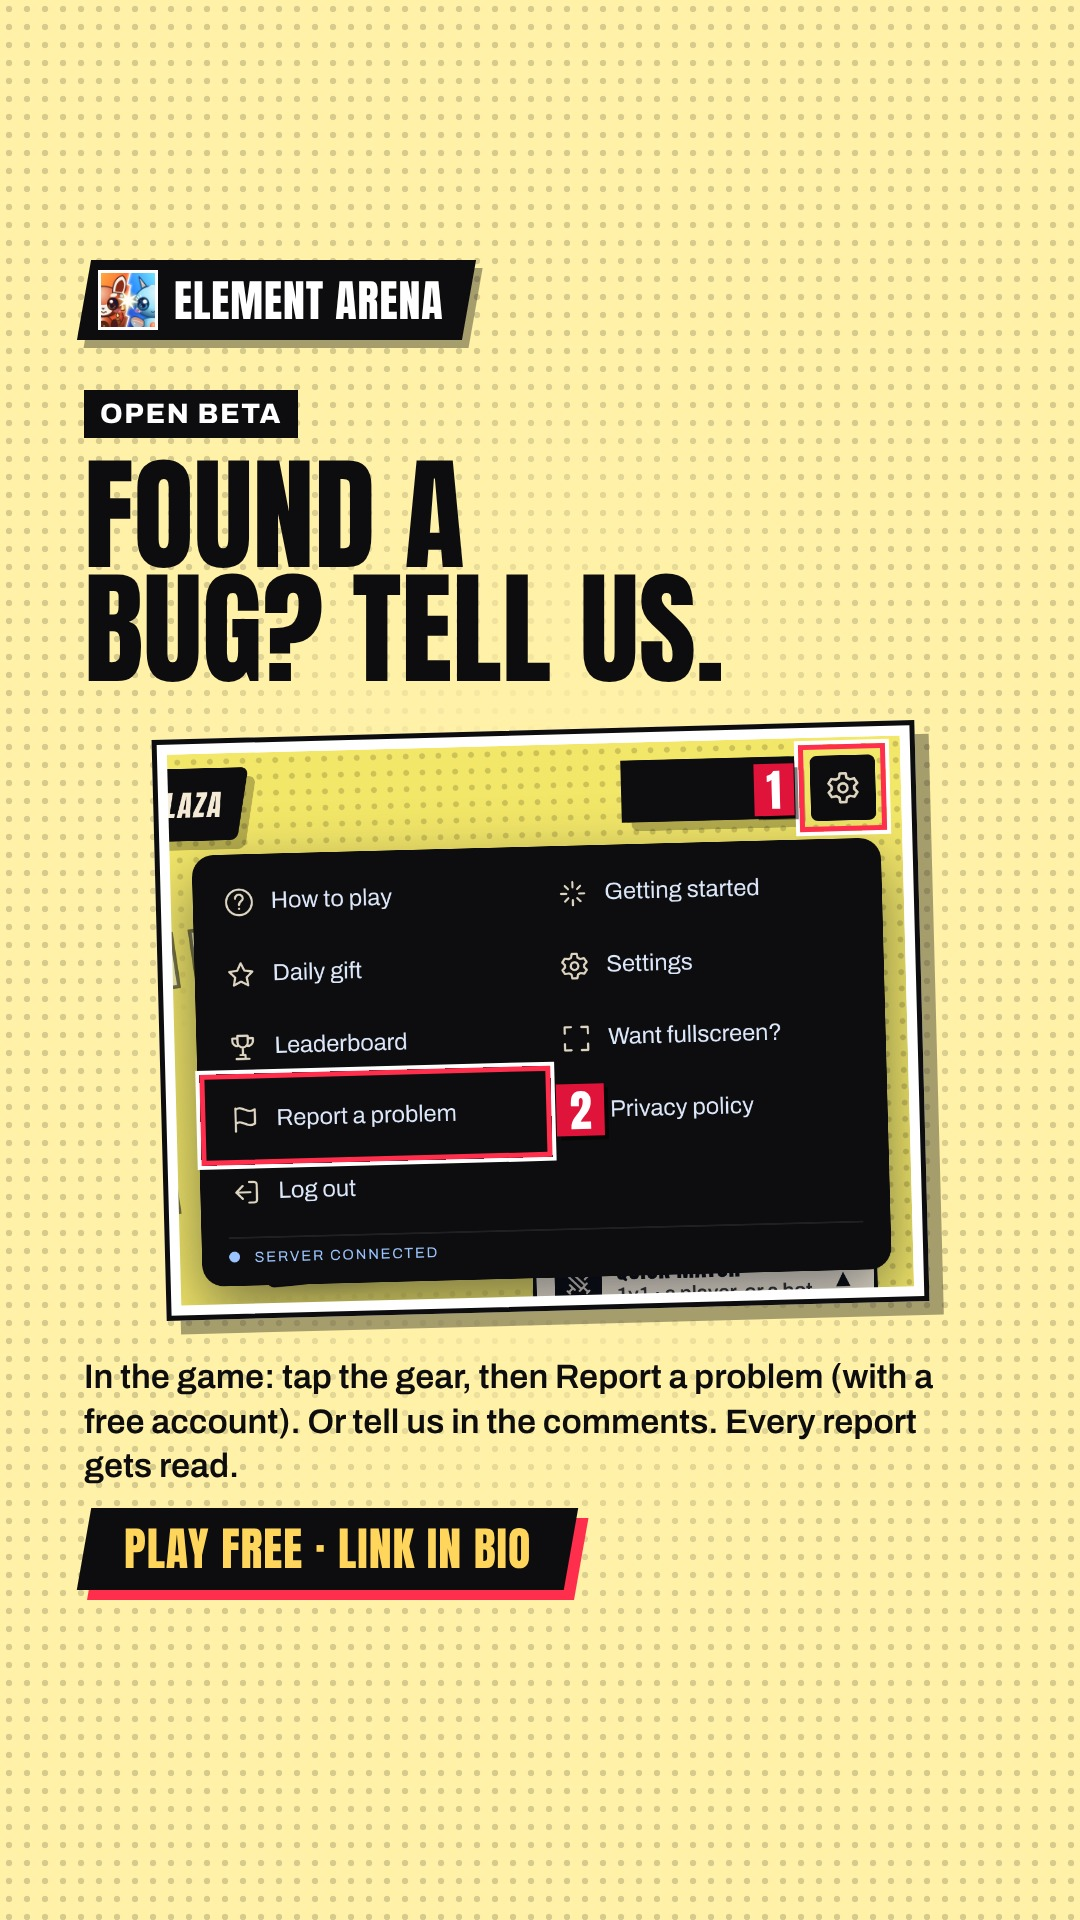
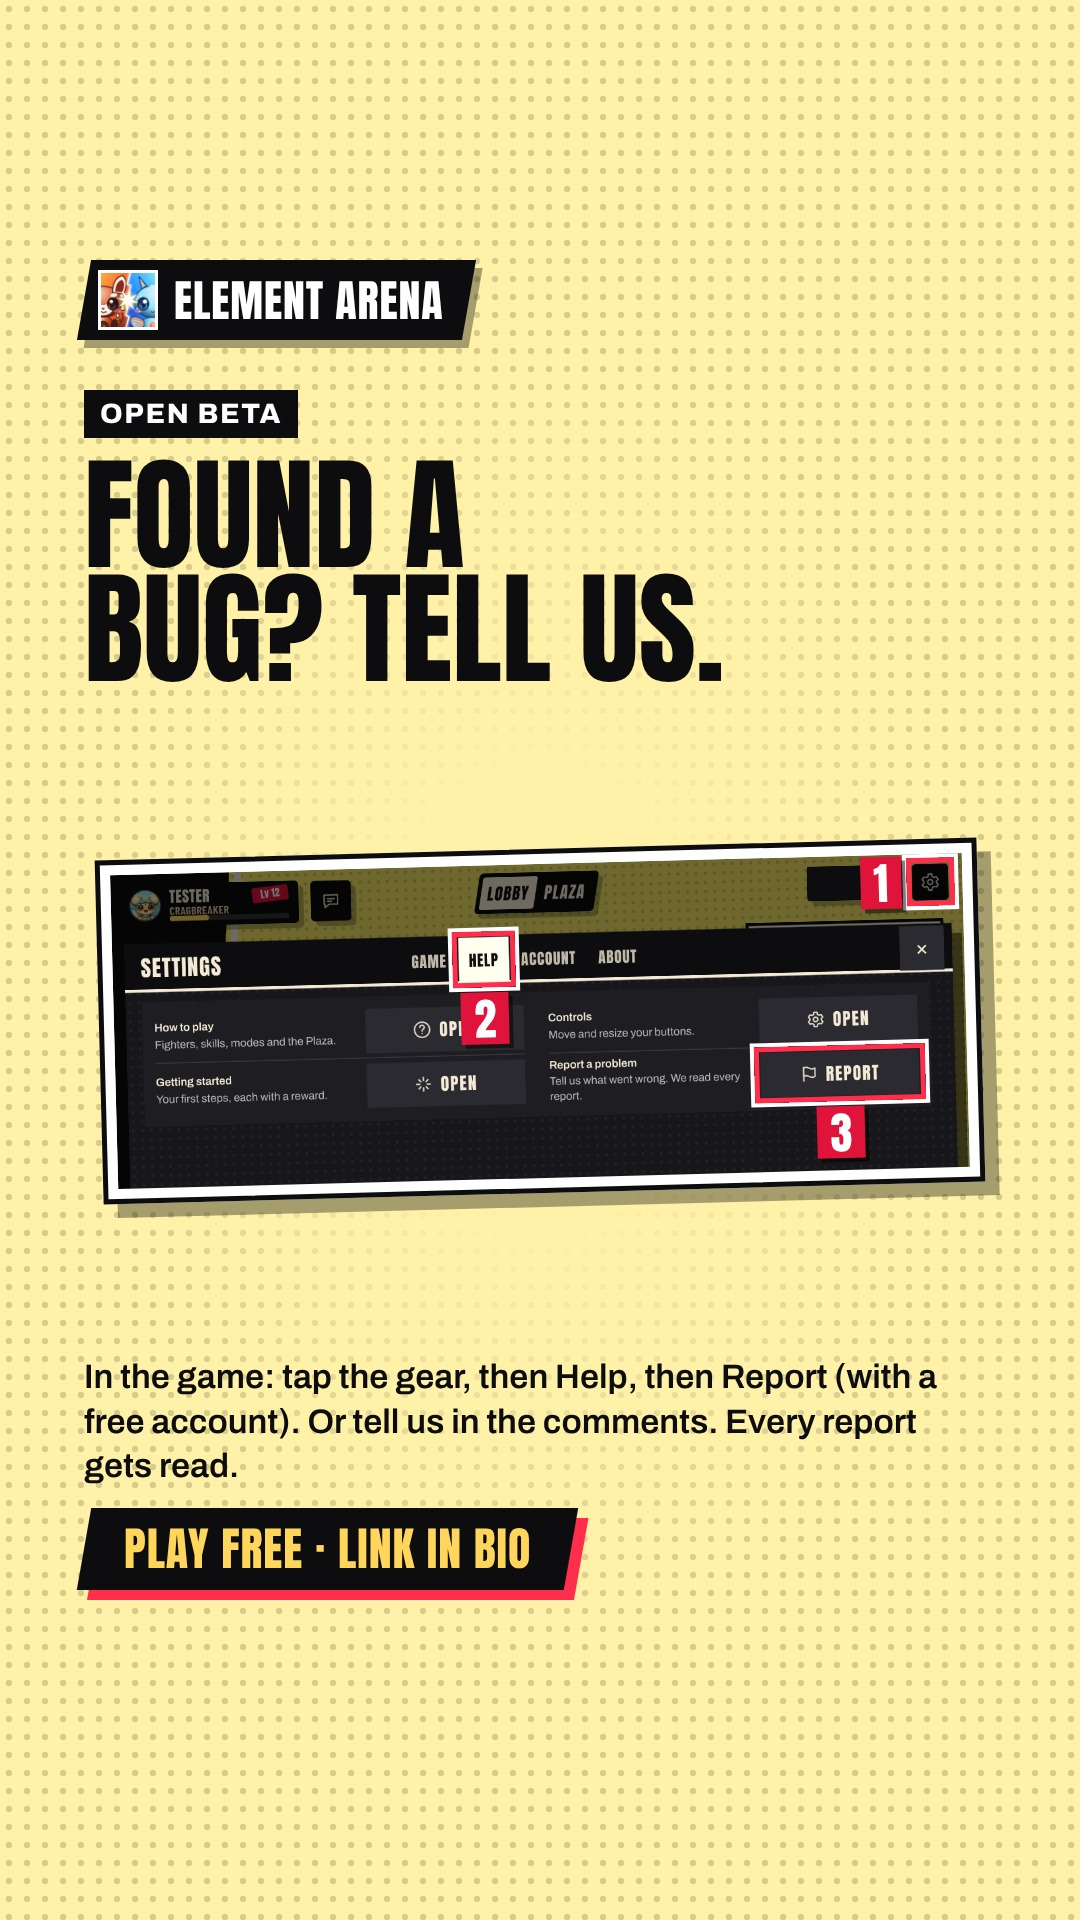
Instagram post 10: gear → Help → Report a problem, after #674
The gear now opens Settings, with Report a problem on its Help tab.
report.spec.ts follows that path and records the gear, the Help tab and
the Report button; post 10 shows the whole screen with three numbered
rings, sized to the post's width; its caption and line say "the gear,
then Help, then Report". The scheduled run's bug-report answer says the
same.

Claude-Session: https://claude.ai/code/session_01GGURqTyss1yZEG5qcb1sBJ

Changed region(s): [[0.0917, 0.375, 0.9472, 0.75]]

diff --git a/scripts/instagram/report.spec.ts b/scripts/instagram/report.spec.ts
@@ -7,7 +7,8 @@
  *   npx playwright test --config scripts/instagram/playwright.config.ts report.spec.ts
  *
  * Writes instagram-clips/report/menu.png and form.png (2532 x 1170), and
- * boxes.json: where the gear, Report a problem, the menu and the coins are.
+ * boxes.json: where the gear, the Help tab, Report a problem, the sheet and
+ * the coins are.
  */
 import { expect, test } from "@playwright/test";
 import { mkdirSync, writeFileSync } from "node:fs";
@@ -30,22 +31,30 @@ test("report a problem", async ({ browser }) => {
     const page = await context.newPage();
     await openHub(page);
     expect(await lookShown(page)).toBe("poster");
-    // The gear at the top right opens the Menu, Report a problem in it.
-    await page.locator("#header-menu > summary").click();
-    const report = page.locator("#report-problem");
+    // The gear at the top right opens Settings (#674); Report a problem is
+    // on its Help tab.
+    const gearBox = (await page.locator("#home-settings").boundingBox())!;
+    await page.screenshot({ path: `${OUT}/lobby.png` });
+    await page.locator("#home-settings").click();
+    const help = page.locator('[data-settings-tab="help"]');
+    await expect(help).toBeVisible();
+    await help.click();
+    const report = page.locator("#settings-report");
     await expect(report).toBeVisible();
     await page.waitForTimeout(600);
     await page.screenshot({ path: `${OUT}/menu.png` });
-    // Where the gear, Report a problem, the open menu and the coin count
-    // are (CSS pixels), for the post's crop, its rings and its cover.
+    // Where the gear (before Settings opened), the Help tab, Report a
+    // problem, the sheet and the coin count are (CSS pixels), for the
+    // post's crop, its rings and its cover.
     const at = async (selector: string) =>
       (await page.locator(selector).first().boundingBox())!;
     writeFileSync(
       `${OUT}/boxes.json`,
       JSON.stringify({
-        gear: await at("#header-menu > summary"),
-        report: await at("#report-problem"),
-        panel: await at(".header-menu-panel"),
+        gear: gearBox,
+        help: await at('[data-settings-tab="help"]'),
+        report: await at("#settings-report"),
+        panel: await at("#dialog"),
         coins: await at("#account-coins"),
       }),
     );

diff --git a/docs/instagram.md b/docs/instagram.md
@@ -15,8 +15,9 @@ champions, skins and features. So the posts:
 - say "open beta", and that it's free in the browser now;
 - say the iPhone and Android apps come later, with more, but never give a
   date or promise a particular champion, skin or feature;
-- ask players to report bugs: in the game, **Report a problem** under the
-  gear at the top of the Lobby (it needs a free account), or in the
+- ask players to report bugs: in the game, the gear at the top of the
+  Lobby, then **Help**, then **Report a problem** (it needs a free
+  account), or in the
   comments, which the scheduled runs thank and pass on to the owner;
 - teach adding the game to the home screen early (the owner: friends keep
   asking how), with screenshots from a real phone, never drawings. The
@@ -139,7 +140,7 @@ shows, retake it, look at it, and ship it before its time. The pictures in
 | 3 Roster                                                             | the fighters' drawings, names and elements (packages/shared)                                 | `make-posts.mjs`                                     |
 | 6 Pyranda (champion spotlights)                                      | the drawing, and each skill's button as a phone shows it in battle (owner, 28 Nov)           | `CHAMP=pyranda` `kit.spec.ts`, then `make-posts.mjs` |
 | 8 Skins (Reel)                                                       | the Shop's fitting room in Poster, the Mythical skins                                        | `skins.spec.ts`, `make-reel.py`                      |
-| 10 Found a bug?                                                      | the gear menu in Poster and Report a problem                                                 | `report.spec.ts`, then `make-posts.mjs`              |
+| 10 Found a bug?                                                      | Settings in Poster: the gear, the Help tab and Report a problem                              | `report.spec.ts`, then `make-posts.mjs`              |
 | 11 Play it like an app                                               | the app icon, and Safari's steps (iOS, not the game)                                         | `HOWTO=1 make-posts.mjs`; new iOS: new screenshots   |
 | 12 Plaza, 13 Friends                                                 | the Plaza (made-up players placed by world coordinates), the Friends sheet (made-up friends) | `screens.spec.ts`, then pick the frame again by eye  |
 | 1 Welcome, 4 Lumiwick                                                | paintings only                                                                               | `make-posts.mjs`                                     |
@@ -147,11 +148,9 @@ shows, retake it, look at it, and ship it before its time. The pictures in
 Every post's frame copies Poster (colours, fonts, slabs: the CSS in
 `make-posts.mjs`), and captions name places in the game: when Poster's
 palette or the gear changes, check the frames and the captions too. The
-gear is being remodelled (phone-fixes session, 28 Nov): it will open
-Settings, with Report a problem on its Help tab. Until that is on main,
-captions say only "report it from the gear (⚙)", true before and after;
-post 10 and `report.spec.ts` move to gear → Help → Report a problem once it
-merges. The sessions changing
+gear opens Settings (#674, 28 Nov), with Report a problem on its Help tab:
+post 10 rings all three (gear, Help, Report), and other captions say only
+"report it from the gear (⚙)". The sessions changing
 the game's look were asked (28 Nov) to tell the Instagram session when
 they merge.
 
@@ -198,7 +197,7 @@ hashtags; five works under either rule.
 | 7. Free-for-all             | a real four-way fight in the Ember Forge                                   |
 | 8. The Shop: Mythical skins | a Reel (below)                                                             |
 | 9. The Spire                | a real Spire floor                                                         |
-| 10. Found a bug? Tell us.   | the game's Menu, rings on the gear and Report a problem (report.spec.ts)   |
+| 10. Found a bug? Tell us.   | Settings' Help tab, rings on the gear, Help and Report (report.spec.ts)    |
 | 11. Play it like an app     | a carousel from a real iPhone: Safari's steps to the home screen (above)   |
 | 12. The Plaza               | the Plaza in an Orb Shower, made-up players with their titles (every tier) |
 | 13. Bring your friends      | the Friends sheet: a request, Invite, Join and Watch, the friend code      |
